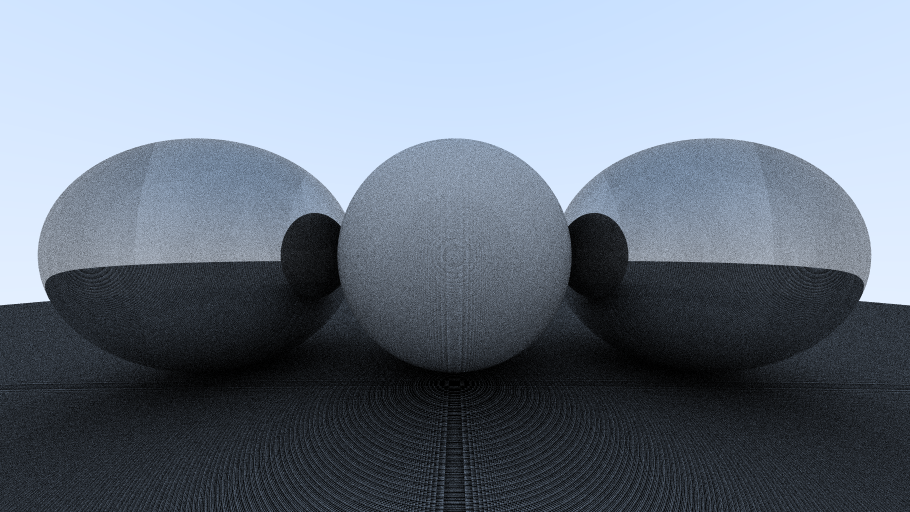
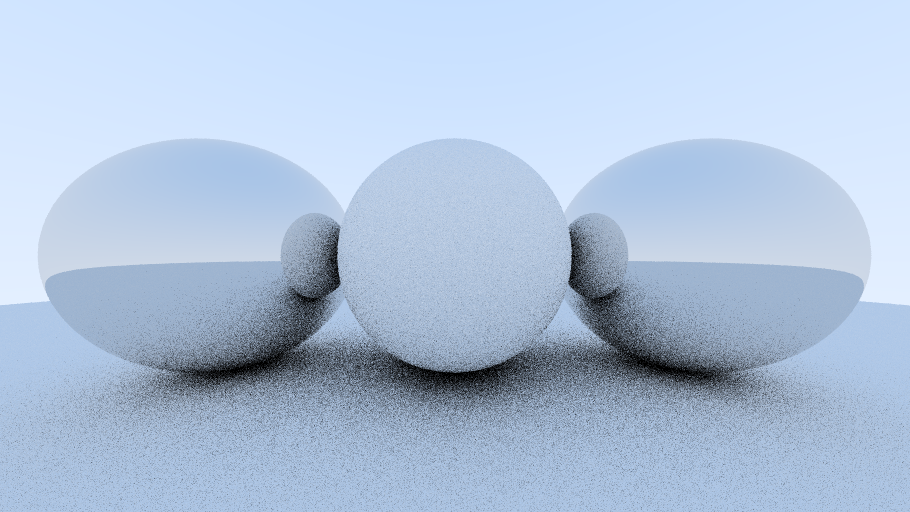
Fixed sphere intersection float precision errors

diff --git a/src/engine/scene.rs b/src/engine/scene.rs
@@ -20,6 +20,16 @@ pub struct Scene {
     pub meshes: Vec<Mesh>,
 }
 
+struct GLTFContext {
+    pub decoded_buffers : Vec<Vec<u8>>,
+}
+
+impl GLTFContext {
+    pub fn new() -> Self {
+        Self{decoded_buffers : Vec::new()}
+    }
+}
+
 impl Scene {
     pub fn new() -> Self {
         Self { 
@@ -27,7 +37,7 @@ impl Scene {
         }
     }
 
-    fn load_gltf_node(&mut self, node: &gltf::Node, matrix: &Mat4) {
+    fn load_gltf_node(&mut self, context : &GLTFContext, node: &gltf::Node, matrix: &Mat4) {
         let node_transform_matrix = node.transform().matrix();
 
         let new_matrix = matrix.mul_mat4(&Mat4::from_cols_array_2d(&node_transform_matrix));
@@ -49,17 +59,7 @@ impl Scene {
                             let buffer_view_option = attribute.1.view();
                             if buffer_view_option.is_some() {
                                 let buffer_view = buffer_view_option.unwrap();
-                                let buffer = buffer_view.buffer();
-
-                                let mut buffer_raw_data: Vec<u8> = Vec::new();
-                                match buffer.source() {
-                                    gltf::buffer::Source::Uri(data) => {
-                                        // TODO: Share buffers, otherwise we will decode it on each triangle
-                                        let url = DataUrl::process(data).unwrap();
-                                        (buffer_raw_data, _) = url.decode_to_vec().unwrap();
-                                    },
-                                    gltf::buffer::Source::Bin => println!("Engine does not support binary buffer format"),
-                                }
+                                let buffer = &context.decoded_buffers[buffer_view.index()];
                                 
                                 let size = data_type.multiplicity() * raw_type.size();
 
@@ -68,7 +68,7 @@ impl Scene {
                                 let mut buffer_pos = 0;
                                 while buffer_pos < buffer_view.length() {
                                     let mut pos_raw_data_pos = buffer_view.offset() + buffer_pos;
-                                    let pos_raw_data: [u8; 4 * 3 * 3] = buffer_raw_data[pos_raw_data_pos..pos_raw_data_pos + 4 * 3 * 3].try_into().expect("Degenerate triangle");
+                                    let pos_raw_data: [u8; 4 * 3 * 3] = buffer[pos_raw_data_pos..pos_raw_data_pos + 4 * 3 * 3].try_into().expect("Degenerate triangle");
 
                                     let pos1_offset = 0;
                                     let mut pos1 = Vec3A::ZERO;
@@ -78,15 +78,15 @@ impl Scene {
 
                                     let pos2_offset = pos1_offset + 4 * 3;
                                     let mut pos2 = Vec3A::ZERO;
-                                    pos2.x = f32::from_be_bytes(pos_raw_data[pos2_offset..pos2_offset + 4].try_into().expect("Invalid [1] x coord"));
-                                    pos2.y = f32::from_be_bytes(pos_raw_data[pos2_offset + 4..pos2_offset + 4 * 2].try_into().expect("Invalid [1] y coord"));
-                                    pos2.z = f32::from_be_bytes(pos_raw_data[pos2_offset + 4 * 2..pos2_offset + 4 * 3].try_into().expect("Invalid [1] z coord"));
+                                    pos2.x = f32::from_be_bytes(pos_raw_data[pos2_offset..pos2_offset + 4].try_into().expect("Invalid [2] x coord"));
+                                    pos2.y = f32::from_be_bytes(pos_raw_data[pos2_offset + 4..pos2_offset + 4 * 2].try_into().expect("Invalid [2] y coord"));
+                                    pos2.z = f32::from_be_bytes(pos_raw_data[pos2_offset + 4 * 2..pos2_offset + 4 * 3].try_into().expect("Invalid [2] z coord"));
 
                                     let pos3_offset = pos2_offset + 4 * 3;
                                     let mut pos3 = Vec3A::ZERO;
-                                    pos3.x = f32::from_be_bytes(pos_raw_data[pos3_offset..pos3_offset + 4].try_into().expect("Invalid [1] x coord"));
-                                    pos3.y = f32::from_be_bytes(pos_raw_data[pos3_offset + 4..pos3_offset + 4 * 2].try_into().expect("Invalid [1] y coord"));
-                                    pos3.z = f32::from_be_bytes(pos_raw_data[pos3_offset + 4 * 2..pos3_offset + 4 * 3].try_into().expect("Invalid [1] z coord"));
+                                    pos3.x = f32::from_be_bytes(pos_raw_data[pos3_offset..pos3_offset + 4].try_into().expect("Invalid [3] x coord"));
+                                    pos3.y = f32::from_be_bytes(pos_raw_data[pos3_offset + 4..pos3_offset + 4 * 2].try_into().expect("Invalid [3] y coord"));
+                                    pos3.z = f32::from_be_bytes(pos_raw_data[pos3_offset + 4 * 2..pos3_offset + 4 * 3].try_into().expect("Invalid [3] z coord"));
 
                                     let vertex1 = Vertex::new(pos1);
                                     let vertex2 = Vertex::new(pos2);
@@ -113,7 +113,7 @@ impl Scene {
         }
 
         for child in node.children() {
-            self.load_gltf_node(&child, &new_matrix);
+            self.load_gltf_node(context, &child, &new_matrix);
         }
     }
 
@@ -121,9 +121,23 @@ impl Scene {
         let file = fs::File::open(path).unwrap();
         let reader = io::BufReader::new(file);
         let gltf = gltf::Gltf::from_reader(reader).unwrap();
+        
+        let mut context = GLTFContext::new();
+        context.decoded_buffers.resize(gltf.buffers().count(), Vec::new());
+        for buffer in gltf.buffers() {
+            match buffer.source() {
+                gltf::buffer::Source::Uri(data) => {
+                    let url = DataUrl::process(data).unwrap();
+                    (context.decoded_buffers[buffer.index()], _) = url.decode_to_vec().unwrap();
+                },
+                gltf::buffer::Source::Bin => println!("Engine does not support binary buffer format"),
+            }
+        }
+
+
         for scene in gltf.scenes() {
             for node in scene.nodes() {
-                self.load_gltf_node(&node, &Mat4::IDENTITY);
+                self.load_gltf_node(&context, &node, &Mat4::IDENTITY);
             }
         }
     }

diff --git a/src/engine/geometry/triangle.rs b/src/engine/geometry/triangle.rs
@@ -21,7 +21,7 @@ impl Triangle {
 }
 
 impl Traceable for Triangle {
-    fn hit(&self, ray: Ray) -> Option<HitResult> {
+    fn hit(&self, ray: Ray, t_min: f32, t_max: f32) -> Option<HitResult> {
         let v0v1 = self.vertices[1].position - self.vertices[0].position;
         let v0v2 = self.vertices[2].position - self.vertices[0].position;
         let pvec = ray.direction.cross(v0v2);
@@ -29,7 +29,7 @@ impl Traceable for Triangle {
 
         // if the determinant is negative, the triangle is 'back facing'
         // if the determinant is close to 0, the ray misses the triangle
-        if det < Triangle::Epsilon {
+        if det.abs() < Triangle::Epsilon {
             return None;
         }
         let invDet = 1.0 / det;
@@ -46,6 +46,10 @@ impl Traceable for Triangle {
             return None;
         }
         let t = v0v2.dot(qvec) * invDet;
+
+        if t < t_min || t > t_max {
+            return None;
+        }
         
         return Some(HitResult { position: ray.at(t), t: t, normal: self.normal, material: Weak::new(), uv: Vec2::new(u, v) });
     }

diff --git a/src/engine/geometry/sphere.rs b/src/engine/geometry/sphere.rs
@@ -14,7 +14,7 @@ impl Sphere {
 }
 
 impl Traceable for Sphere {
-    fn hit(&self, ray: Ray) -> Option<HitResult> {
+    fn hit(&self, ray: Ray, t_min: f32, t_max: f32) -> Option<HitResult> {
         let oc: Vec3A = ray.origin - self.position;
         let a: f32 = ray.direction.dot(ray.direction);
         let half_b: f32 = oc.dot(ray.direction);
@@ -26,9 +26,9 @@ impl Traceable for Sphere {
 
         let discriminant_sqrt = discriminant.sqrt();
         let mut t = (-half_b - discriminant_sqrt) / a;
-        if t < 0.0 {
+        if t < t_min || t > t_max {
             t = (-half_b + discriminant_sqrt) / a;
-            if t < 0.0 {
+            if t < t_min {
                 return None;
             }
         }

diff --git a/src/engine/renderer.rs b/src/engine/renderer.rs
@@ -39,9 +39,9 @@ impl Renderer {
         }
 
         if depth > 1 {
-            let brdf_vector = unsafe {(*min_hit_result.material.as_ptr()).scatter.scatter(ray, &min_hit_result)};
+            let scatter_vector = unsafe {(*min_hit_result.material.as_ptr()).scatter.scatter(ray, &min_hit_result)};
 
-            let new_ray = Ray{origin : min_hit_result.position, direction : brdf_vector};
+            let new_ray = Ray{origin : min_hit_result.position, direction : scatter_vector};
             return Self::sample_scene(new_ray, scene, depth - 1) * 0.8;
         }
 

diff --git a/src/engine/mesh.rs b/src/engine/mesh.rs
@@ -35,7 +35,7 @@ impl Mesh {
         let mut min_hit_result = HitResult::new();
 
         for traceable in self.spheres.iter() {
-            let hit_option: Option<HitResult> = traceable.hit(ray);
+            let hit_option: Option<HitResult> = traceable.hit(ray, 0.001, f32::MAX);
             if hit_option.is_some() {
                 let hit_result = hit_option.unwrap();
                 if hit_result.t < min_hit_result.t {

diff --git a/src/engine/geometry/traceable.rs b/src/engine/geometry/traceable.rs
@@ -14,7 +14,7 @@ pub struct HitResult {
 }
 
 pub trait Traceable {
-    fn hit(&self, ray: Ray) -> Option<HitResult>;
+    fn hit(&self, ray: Ray, t_min: f32, t_max: f32) -> Option<HitResult>;
 }
 
 impl HitResult {
